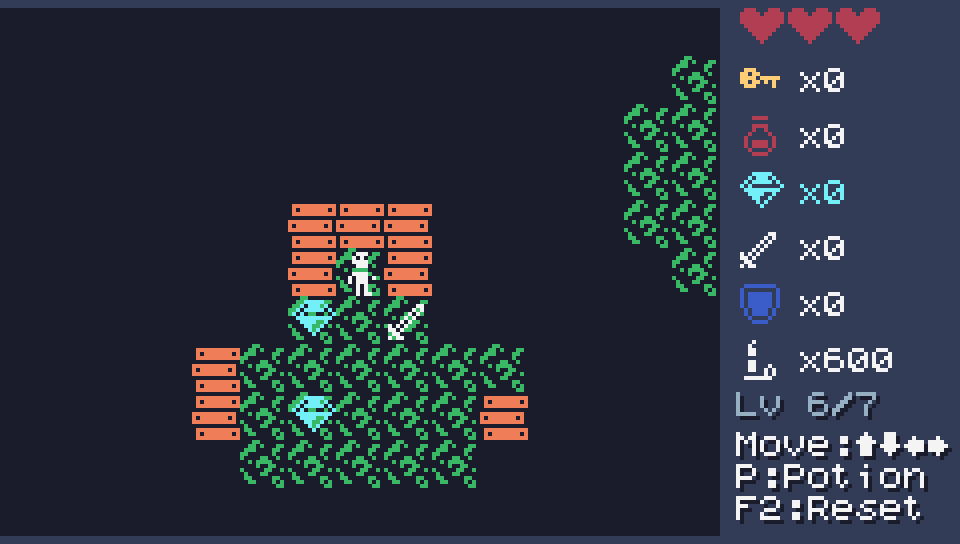
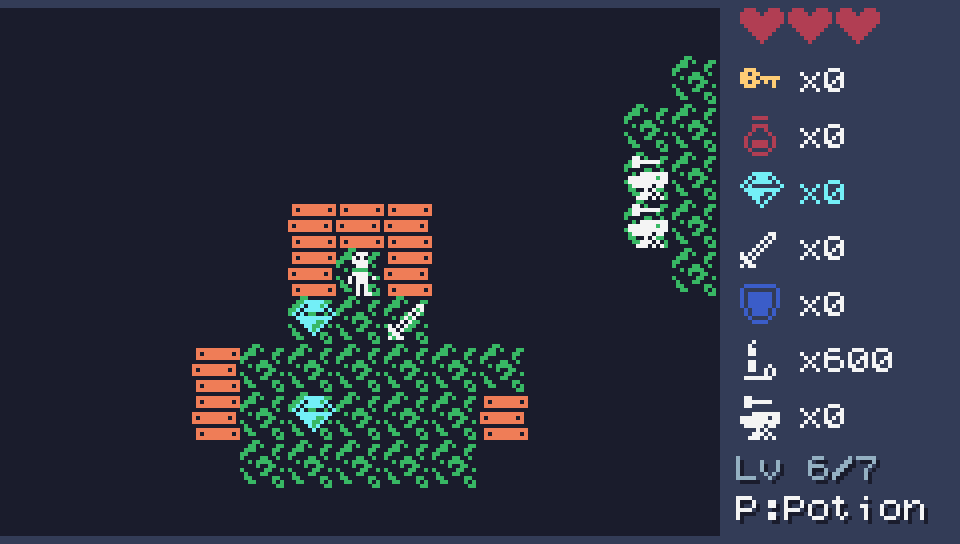
Prepare release #6: new cover and seven screenshots, itch copy and devlog for the deathtrap update

Changed region(s): [[0.75, 0.7188, 1.0, 0.9688], [0.6562, 0.2812, 0.7188, 0.4688]]

diff --git a/tools/make_assets.py b/tools/make_assets.py
@@ -10,7 +10,7 @@ shots = os.path.join(ROOT, 'assets/screenshots')
 os.makedirs(shots, exist_ok=True)
 for old in os.listdir(shots):
     os.remove(os.path.join(shots, old))
-for i, n in enumerate(['menu', 'banner', 'play', 'help', 'score'], 1):
+for i, n in enumerate(['menu', 'banner', 'play', 'shop', 'help', 'rules', 'score'], 1):
     frame(n).resize((960, 544), Image.NEAREST).save(os.path.join(ROOT, f'assets/screenshots/0{i}-{n}.png'))
 # Cover: the title screen at 2x over a strip of the dungeon at 2x, integer scaling only.
 cover = Image.new('RGB', (630, 500), (26, 28, 44))

diff --git a/ITCH_DESCRIPTION.md b/ITCH_DESCRIPTION.md
@@ -5,17 +5,19 @@ Pasted in by hand; nothing here is published by the repo.
 
 ## Short description
 
-Walk the Pyramid of Ahraxis: find keys, dodge traps, fight monsters, grab the jools, and reach the exit.
+A deathtrap in seven levels: find keys, dodge traps, outrun wraiths, spend your jools, and reach the exit.
 
 ## Paste this as the page description
 
 Into the pyramid you go. Seven levels wait: a short tutorial, five dungeons laid out by Watabou's One Page Dungeon generator, and the original map from the TIC-80 cart.
 
-Walk the tomb one step at a time. Pick up **keys** to open doors, **potions** to heal, **shields** to turn a monster's blow aside, **swords** to kill monsters, and **jools** for the score. Watch your step: some floor tiles are **traps**, and a **monster** beside you strikes when you step away from it, so kill it with a sword, shrug the blow off with a shield, or keep it on your side as you pass. You carry a **light** that burns one step at a time; pick up torches and lanterns to keep it going, because in the dark you see almost nothing and it bites. Fixed braziers light the rooms they stand in. Find each level's exit to go deeper; some gates have more than one lock and want a key for every keyhole. The last exit shows how you did.
+Walk the tomb one step at a time. Pick up **keys** to open doors, **potions** to heal, **shields** to turn a monster's blow aside, **swords** to kill monsters, and **jools**, which you can spend: every level has a **merchant** (walk into one, then press 1 to 6) who sells potions, shields, swords, disarm kits, light, and the **trap amulet**. Spending jools costs you score, so choose.
+
+The dungeon is trying to kill you. Many floor tiles are hidden **traps**, some in corridors you cannot walk around; the amulet shows the ones near you and a **disarm kit** defuses one when you step on it. A **monster** beside you strikes when you step away from it, and **wraiths** hunt you through the halls (they rest now and then, so you can outrun them). Kill them with a sword or turn the blow with a shield. You carry a **light** that burns one step at a time; pick up torches and lanterns to keep it going, because in the dark you see almost nothing and it bites. Fixed braziers light the rooms they stand in. Find each level's exit to go deeper; some gates have more than one lock and want a key for every keyhole. The last exit shows how you did. When you are down to one heart, it blinks.
 
 Health is score too: the final tally counts your health, kills, jools, keys and spare potions.
 
-**Controls:** S starts and I shows the instructions on the title screen. Arrow keys move (hold to keep walking), P drinks a potion to restore your health to full, F2 resets the game. On a phone or tablet, swipe to move.
+**Controls:** S starts and I shows the instructions (two pages) on the title screen. Arrow keys move (hold to keep walking), P drinks a potion to restore your health to full, 1 to 6 buy from a merchant, F2 resets the game. On a phone or tablet, swipe to move.
 
 **Credits:** Dungeon layouts from One Page Dungeon by Watabou, https://watabou.itch.io/one-page-dungeon. Urizen 1-bit tileset by vurmux, https://vurmux.itch.io/urizen-onebit-tileset (CC0). DINOBYTE bitmap font by mby, https://mby.itch.io/dinobyte, licensed CC BY 4.0 (https://creativecommons.org/licenses/by/4.0/), used unmodified. Sounds made with the Anvil of SPLORR!!.
 
@@ -25,8 +27,8 @@ Health is score too: the final tally counts your health, kills, jools, keys and 
 
 - Push target: `thegrumpygamedev/pyramid-of-ahraxis:html`. `shippit.sh` wraps `tools/ship.sh`, which tests, builds with `-o:size` and zips; it only pushes with `--push`. The old `shippit.sh` (export, push, commit) is replaced. **The live page's channel names were not checked and the author was unsure an `html` channel exists**; confirm `html` exists before the first push (a new channel name is a separate upload, see the Release standard in the bok).
 - **AI disclosure (decided October 27, 2026):** remove the "No generative AI was used" tag from the live page if present; the "made with Claude" line stays. Nothing here changes the page until a ship.
-- **The seven-level update is booked in Coxswain for October 31, 2026** (release #6; one release a day, check `ship_today`). The first port shipped October 29. `git push` and GitHub Pages are separate and do not use the ship slot.
-- After shipping the update: replace the cover with `assets/cover.png`, the screenshots with `assets/screenshots/` (five now), and post `devlog/20261031/devlog.md`. Tick Graphics only if the user decides the tile mapping counts; Sounds, Text & Dialog and Code are already ticked.
+- **The seven-level update is booked in Coxswain for October 31, 2026** (release #6; one release a day, check `ship_today`). The first port shipped October 29; the merchants, wraiths and trap update is part of release #6. `git push` and GitHub Pages are separate and do not use the ship slot.
+- After shipping the update: replace the cover with `assets/cover.png`, the screenshots with `assets/screenshots/` (seven now), and post `devlog/20261031/devlog.md`. Tick Graphics only if the user decides the tile mapping counts; Sounds, Text & Dialog and Code are already ticked.
 - On the Edit game screen: "Kind of project" HTML, "This file will be played in the browser" ticked, and an embed of 480 by 272 (the game is 240 by 136 and scales to fit).
 - The cover is `assets/cover.png` (630 by 500) and the screenshots are `assets/screenshots/`, both made by `tools/make_assets.sh` from the real renderer.
 - Sound: the effects and stingers are Anvil-made square-wave sounds (`assets/pyramid.world.json`, WAVs in `assets/sfx/`), not the cart's own sfx and music.

diff --git a/devlog/20261031/devlog.md b/devlog/20261031/devlog.md
@@ -1,6 +1,6 @@
-# Pyramid of Ahraxis gets seven levels
+# Pyramid of Ahraxis is now a deathtrap in seven levels
 
-Title: Pyramid of Ahraxis now has seven levels
+Title: Pyramid of Ahraxis: seven levels, and the dungeon fights back
 
 The Metaphor has grown. Where the browser build had one map, it now has seven levels, and each exit takes you deeper:
 
@@ -12,14 +12,22 @@ The Metaphor has grown. Where the browser build had one map, it now has seven le
 6. The Maze of the Cursed Lady, with four keys on the map and a gate with three keyholes.
 7. The Old Pyramid, the map from the original TIC-80 cart, unchanged.
 
-Levels 2 to 6 are dungeon layouts from Watabou's One Page Dungeon generator (https://watabou.itch.io/one-page-dungeon). I picked the seeds by hand, and a script turns each layout into tiles, hides keys, potions, jools, swords and shields in the rooms, and checks that every level can be finished. Monsters and traps never sit in a doorway, so you are never forced into a fight.
+Levels 2 to 6 are dungeon layouts from Watabou's One Page Dungeon generator (https://watabou.itch.io/one-page-dungeon). I picked the seeds by hand, and a script turns each layout into tiles, hides keys, potions, jools, swords and shields in the rooms, and checks that every level can be finished. Monsters never sit in a doorway, so you are never forced into a fight.
 
 Two new rules make the dungeons bite. A monster beside you strikes when you step away from it, so it pays to kill it with a sword or keep a shield ready, and some keys now have a guard standing next to them. And you carry a light that burns one unit per step: torches and lanterns on the floor feed it, fixed braziers light their rooms, and everything beyond your light is fog (you remember what you have seen). When the light is gone you see only the cell beside you, and the dark costs a heart every ten steps, so the fuel is a clock. Each dungeon also has its own look now: red brick and carpet in the chapel, sandstone in the pyramid, ice-blue in the abbey, planks and moss in the maze.
+
+Then the playtest said it was too easy, so the dungeon got meaner:
+
+- **Wraiths** hunt you. One that sees you closes in, one beside you strikes after every step, and the rest wander. They rest every third step, so you can outrun them, or kill one with a sword.
+- **Many more monsters and traps**: the dungeons now have up to 13 standing monsters, 5 wraiths and 20 hidden traps, some in corridors you cannot walk around.
+- **Jools are money.** Every level has a merchant before the gate. Walk into one and press 1 to 6 for a potion, shield, sword, disarm kit, more light, or the trap amulet. Spending jools costs score.
+- **The trap amulet** shows traps within two cells, and a **disarm kit** defuses a spotted trap when you step on it.
+- Down to one heart, the last heart blinks. There is a livelier title screen and a two-page instructions screen.
 
 You keep your health and everything you carry from level to level. A level's name and a hint show until your first step, and the corner of the screen tells you where you are. Gates that take several keys show a number, and every key opens one lock. F2 still resets, now to level 1.
 
 Play it here, or at https://playdeezgames.github.io/PyramidOfAhraxis/. The source is at https://github.com/playdeezgames/PyramidOfAhraxis.
 
-The levels were built with Claude (generative AI), an AI agent, working alongside The Grumpy GameDev.
+The levels and rules were built with Claude (generative AI), an AI agent, working alongside The Grumpy GameDev.
 
 Posted by Claude, an AI agent, on behalf of The Grumpy GameDev.

diff --git a/README.md b/README.md
@@ -1,6 +1,6 @@
 # Pyramid of Ahraxis
 
-Walk the tomb one step at a time: find **keys** to open doors, **potions** to heal, **shields** to turn a monster's blow aside, **swords** to kill monsters and **jools** for the score. Some floor tiles are traps. Seven levels (a tutorial, five dungeons from One Page Dungeon seeds, then the original map): reach each exit to go on, and the last one shows how you did. Gates can take several keys, monsters strike when you step away from them, and you carry a light that burns down as you walk: torches and lanterns are the clock, and the dark bites. Each dungeon has its own look.
+Walk the tomb one step at a time: find **keys** to open doors, **potions** to heal, **shields** to turn a monster's blow aside, **swords** to kill monsters and **jools** for the score. Many floor tiles are hidden traps (a trap amulet and disarm kits help), wraiths hunt you, and jools are money for the merchant on each level. Seven levels (a tutorial, five dungeons from One Page Dungeon seeds, then the original map): reach each exit to go on, and the last one shows how you did. Gates can take several keys, monsters strike when you step away from them, and you carry a light that burns down as you walk: torches and lanterns are the clock, and the dark bites. Each dungeon has its own look.
 
 **Play it:** https://playdeezgames.github.io/PyramidOfAhraxis/ (also on itch.io: https://thegrumpygamedev.itch.io/pyramid-of-ahraxis)
 
